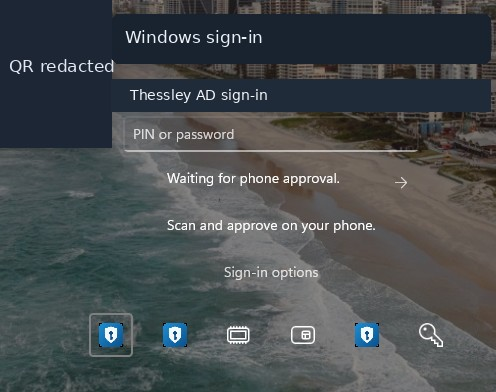
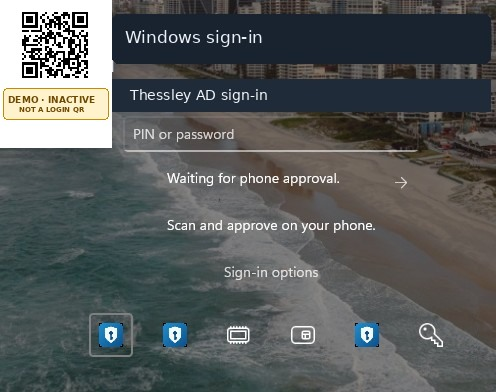
Show inactive demo QR codes in sign-in screenshots

Changed region(s): [[0.0, 0.0, 0.2419, 0.398]]

diff --git a/homepage.html b/homepage.html
@@ -119,8 +119,8 @@
         <h3>Add approval to supported admin workflows</h3>
         <p>Use the Windows packages for supported SSH and administrator workflows, or evaluate the AD service for a domain environment. Confirm OS, domain, and recovery requirements before rollout.</p>
         <figure class="tp-screenshot">
-          <img src="https://wp-opsec.eagleeye-intelligence.com/wp-content/uploads/thessley-screenshots/windows-phone-approval.jpg" alt="Redacted Windows sign-in screen waiting for Thessley phone approval; QR and account details removed" loading="lazy">
-          <figcaption>Windows / AD sign-in awaiting phone approval. Account details and one-time QR are redacted.</figcaption>
+          <img src="https://wp-opsec.eagleeye-intelligence.com/wp-content/uploads/thessley-screenshots/windows-phone-approval.jpg" alt="Windows sign-in screen with an inactive demo QR code; it cannot approve a login" loading="lazy">
+          <figcaption>Illustrative mockup: visible QR encodes an invalid example address and cannot approve a login.</figcaption>
         </figure>
         <a href="https://wp-opsec.eagleeye-intelligence.com/?page_id=43">Windows installation →</a><br>
         <a href="https://wp-opsec.eagleeye-intelligence.com/?page_id=114">AD service installation →</a>

diff --git a/README.md b/README.md
@@ -18,7 +18,7 @@ HTML and publishing scripts for the project pages served from the OPI5.
 
 The `publish-*.php` files are `wp eval-file` scripts: they create or update the matching WordPress page, so content lives here in git and is pushed to the site as a deliberate step.
 
-The Thessley Projects home uses the redacted login screenshots in `screenshots/`; publish them under `/wp-content/uploads/thessley-screenshots/` before running its publisher.
+The Thessley Projects home uses login screenshots with visible, inactive demo QR codes in `screenshots/`; these encode an invalid example address and cannot approve logins. Publish them under `/wp-content/uploads/thessley-screenshots/` before running its publisher.
 
 ## Related
 
